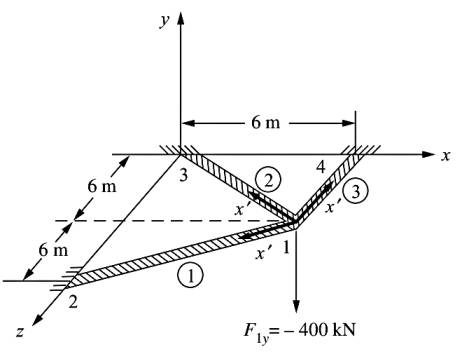
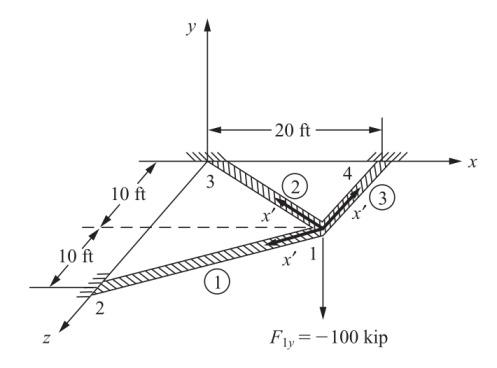
-

Changed region(s): [[0.0, 0.0311, 0.9552, 0.9322], [0.5075, 0.8701, 0.7761, 0.9944], [0.0299, 0.9322, 0.0597, 0.9633]]

diff --git a/phy/phy_020_strs_10/materyel_mekanigi__10.html b/phy/phy_020_strs_10/materyel_mekanigi__10.html
@@ -342,7 +342,7 @@ alacak şekilde figür altta gösteriliyor,</p>
 <p>$$
 k = T_G^T k' T_G
 $$</p>
-<p>Örnek</p>
+<p>Problem</p>
 <p>Alttaki ızgara sistemini analiz edin [3, sf. 265], ızgarada üç tane öğe var,
 sistem düğüm 2, 3 ve 4 noktasında sabitlenmiş halde, ve sisteme dikey yönde 100
 kip büyüklüğünde bir kuvvet uygulanıyor. Global kordinat sistemi düğüm 3
@@ -350,6 +350,12 @@ merkezlidir (o nokta orijin, [0,0,0] kabul edilebilir).  Tüm öğeler için $E 
 \times 10^3$ ksi, $G = 12 \times 10^3$ ksi, $I = 400$ inch, $J = 110$ inch
 olsun.</p>
 <p><img alt="" src="compscieng_bpp43fem_06.jpg" /></p>
+<pre><code class="python">np.round(np.sqrt((10)**2 + 20**2),2)
+</code></pre>
+
+<pre><code>Out[1]: 22.36
+</code></pre>
+
 <p>[devam edecek]</p>
 <p>Kaynaklar</p>
 <p>[1] Petitt, <em>Finite Element Method Theory</em>, University of Alberta,

diff --git a/phy/phy_020_strs_10/phy_020_strs_10.tex b/phy/phy_020_strs_10/phy_020_strs_10.tex
@@ -420,7 +420,7 @@ $$
 k = T_G^T k' T_G
 $$
 
-Örnek
+Problem
 
 Alttaki ızgara sistemini analiz edin [3, sf. 265], ızgarada üç tane öğe var,
 sistem düğüm 2, 3 ve 4 noktasında sabitlenmiş halde, ve sisteme dikey yönde 100
@@ -430,6 +430,30 @@ merkezlidir (o nokta orijin, [0,0,0] kabul edilebilir).  Tüm öğeler için $E 
 olsun.
 
 \includegraphics[width=20em]{compscieng_bpp43fem_06.jpg}
+
+
+\begin{minted}[fontsize=\footnotesize]{python}
+np.round(np.sqrt((10)**2 + 20**2),2)
+\end{minted}
+
+\begin{verbatim}
+Out[1]: 22.36
+\end{verbatim}
+
+
+
+
+
+
+
+
+
+
+
+
+
+
+
 
 [devam edecek]
 
